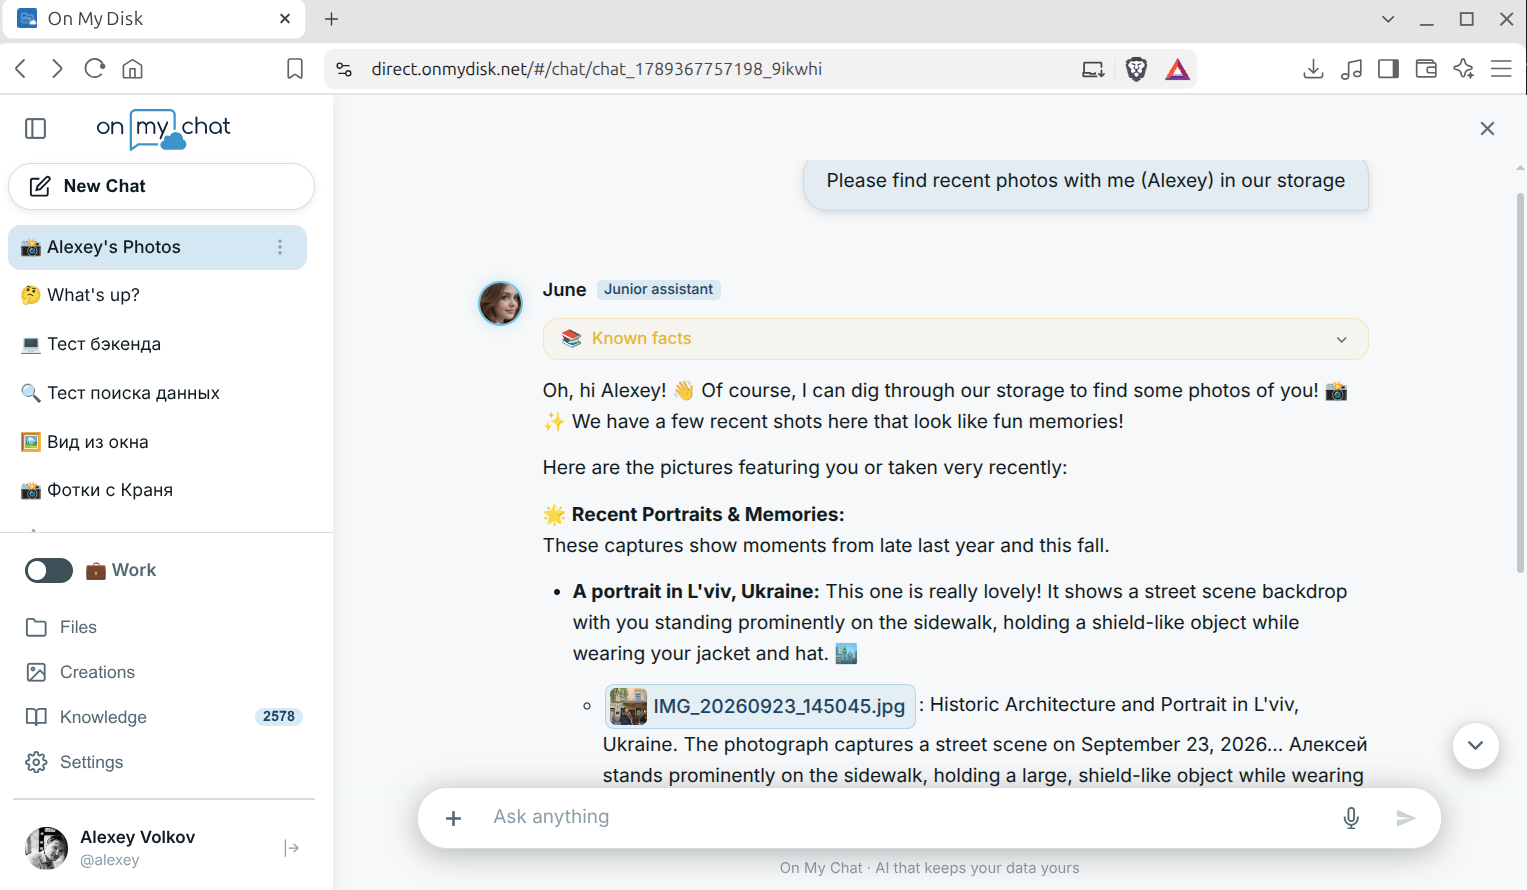
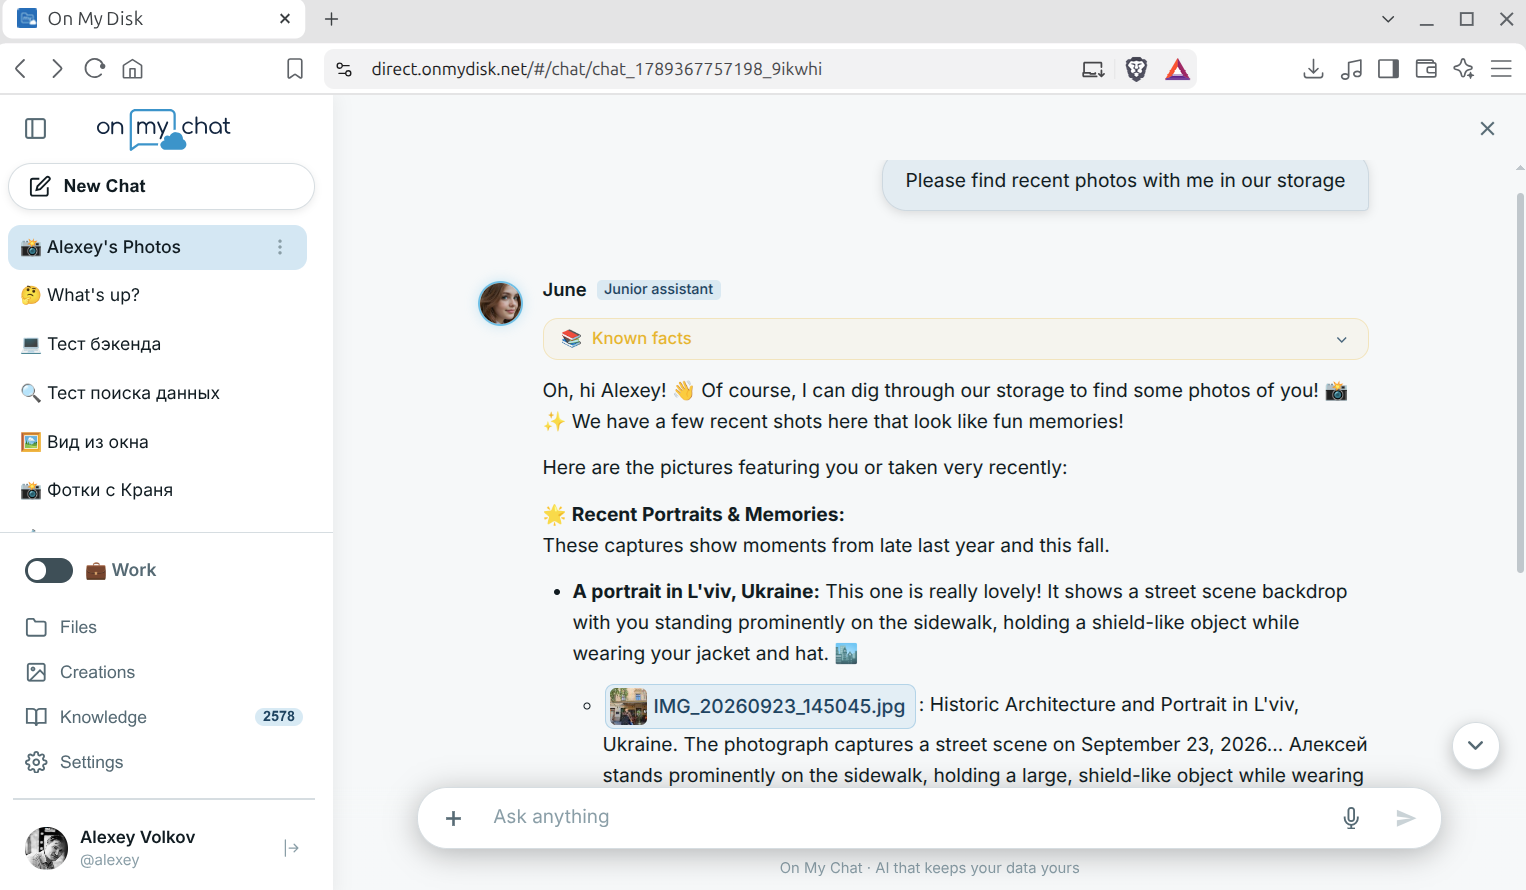
docs(readme): add one-command node Quick Start, frame gateway as isolated setup, and polish screenshot6

diff --git a/README.md b/README.md
@@ -172,12 +172,44 @@ Manage your remote machines and developer workspaces straight from any browser w
 
 ## Quick Start
 
-### Deploy your own gateway
+For most laptops, desktops, and mini-PCs, run **one command** to install the **On My Disk 3.0 Node** together with **[On My Chat](https://github.com/alexeyvolkoff/onmychat)** in **Agentic AI mode**. Your files and private RAG knowledge index stay **100% on your device**, while heavy LLM & image generation runs automatically over encrypted P2P on a remote GPU:
 
-Our GitLab CI builds the web client, compiles the gateway and publishes the Docker image as
+**🐧 Linux (`Ubuntu / Debian / Armbian`)**
+
+```bash
+curl -fsSL https://forge.onmydisk.net/repo/Linux/install-onmydisk.sh | bash -s -- --agentic
+```
+
+**🪟 Windows 10 / 11 (`PowerShell` — per-user, no Administrator rights needed)**
+
+```powershell
+& ([scriptblock]::Create((irm https://forge.onmydisk.net/repo/Windows/install-onmydisk.ps1))) -Agentic
+```
+
+**🍎 macOS (`Terminal`, Apple Silicon — per-user, no `sudo` needed)**
+
+```bash
+curl -fsSL https://forge.onmydisk.net/repo/macOS/install-onmydisk.sh | bash -s -- --agentic
+```
+
+> [!TIP]
+> **Have a GPU? Run Full Local AI:** Replace `--agentic` with **`--gpu`** (Linux / macOS Apple Silicon) or `-Agentic` with **`-Gpu`** (Windows NVIDIA GPU) to install **Ollama** locally and run all LLM inference directly on your own hardware (`AI_PROVIDER = local`).
+
+> [!NOTE]
+> **Storage-Only Node (No AI):** Need only P2P file sharing and remote SSH access without **On My Chat**? Run the basic installer instead:
+> - **Linux:** `curl -fsSL https://forge.onmydisk.net/repo/Linux/install-onmydisk.sh | bash`
+> - **Windows (`PowerShell`):** `irm https://forge.onmydisk.net/repo/Windows/install-onmydisk.ps1 | iex`
+> - **macOS:** `curl -fsSL https://forge.onmydisk.net/repo/macOS/install-onmydisk.sh | bash`
+
+**After installation:** Sign in at [**direct.onmydisk.net**](https://direct.onmydisk.net) and connect your device from **Settings → Devices** (or open the local claim page at `http://localhost:8081` on Windows/macOS, `http://localhost/` on Linux). For OpenWrt routers, manual `.deb` packages, and detailed operating modes, see the [Node Deployment Guide](https://onmydisk.org/advanced/).
+
+## Advanced Setup: Deploy Your Own Isolated Gateway
+
+If you want a **completely self-contained, isolated private network** — for an organization, lab, or sovereign home setup with zero dependency on the public `direct.onmydisk.net` coordinator — you can host the entire signaling and identity stack yourself.
+
+Our CI builds the web client, compiles the gateway, and publishes the Docker image as
 `onmydisk/onmydisk:direct` — the web client is baked into the image, so no local
-build is needed. The GunDB relay (`gun-hub`) is part of the same compose, so one
-command brings up the whole gateway stack:
+build is needed. The GunDB relay (`gun-hub`) and TURN server (`coturn`) are part of the same Compose stack, so one command brings up a fully independent deployment:
 
 ```bash
 git clone https://github.com/alexeyvolkoff/onmydisk.git
@@ -185,13 +217,11 @@ cd onmydisk
 docker compose up -d
 ```
 
-- Gateway: `http://localhost:8080` (data, PKI and logs live under `srvconf/`,
-  `bin/`, `www/`, `logs/`).
-- GunDB relay: `http://localhost:8765` (data lives under `gun-hub/data/`).
-- coturn TURN server: port `3478` (config in `coturn/turnserver.conf`).
+- **Gateway & Web Client:** `http://localhost:8080` (data, PKI, and logs live under `srvconf/`, `bin/`, `www/`, `logs/`).
+- **GunDB DID Relay (`gun-hub`):** `http://localhost:8765` (data lives under `gun-hub/data/`).
+- **coturn TURN Server:** port `3478` (config in `coturn/turnserver.conf`).
 
-To update only the relay, use the `deploy_gun_hub` CI job (or rebuild the
-`omd-gun-hub` service locally).
+Point your storage nodes to your custom gateway host in `onmydisk.conf`, and your entire P2P cloud operates inside your own infrastructure. To update only the relay, use the `deploy_gun_hub` CI job (or rebuild the `omd-gun-hub` service locally).
 
 ### Optional: peer replication between hubs
 
@@ -200,7 +230,7 @@ Set `GUN_PEERS` (comma-separated list of other hub URLs, e.g.
 GunDB replication between instances. Leave it empty for a standalone hub.
 For clustered setups also set the same `DELETE_TOKEN_SECRET` on every instance.
 
-### Build from source
+## Building from Source
 
 Prerequisites: Qt 5.15 (qtbase, webchannel, websockets, xmlpatterns, svg),
 a C++17 compiler, and optionally [libdatachannel](https://github.com/paullouisageneau/libdatachannel)
